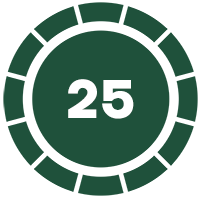
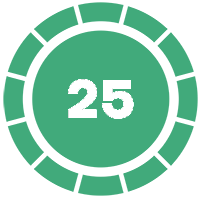
made the 25 chip a ligher green and removed the black shadow behind the chips

diff --git a/css/style.css b/css/style.css
@@ -649,7 +649,7 @@ body::before {
 .chip img {
   width: clamp(52px, 14vw, 68px);
   height: clamp(52px, 14vw, 68px);
-  filter: drop-shadow(0 4px 6px rgba(0, 0, 0, 0.4));
+  filter: none;
   pointer-events: none;
   user-select: none;
   -webkit-user-select: none;